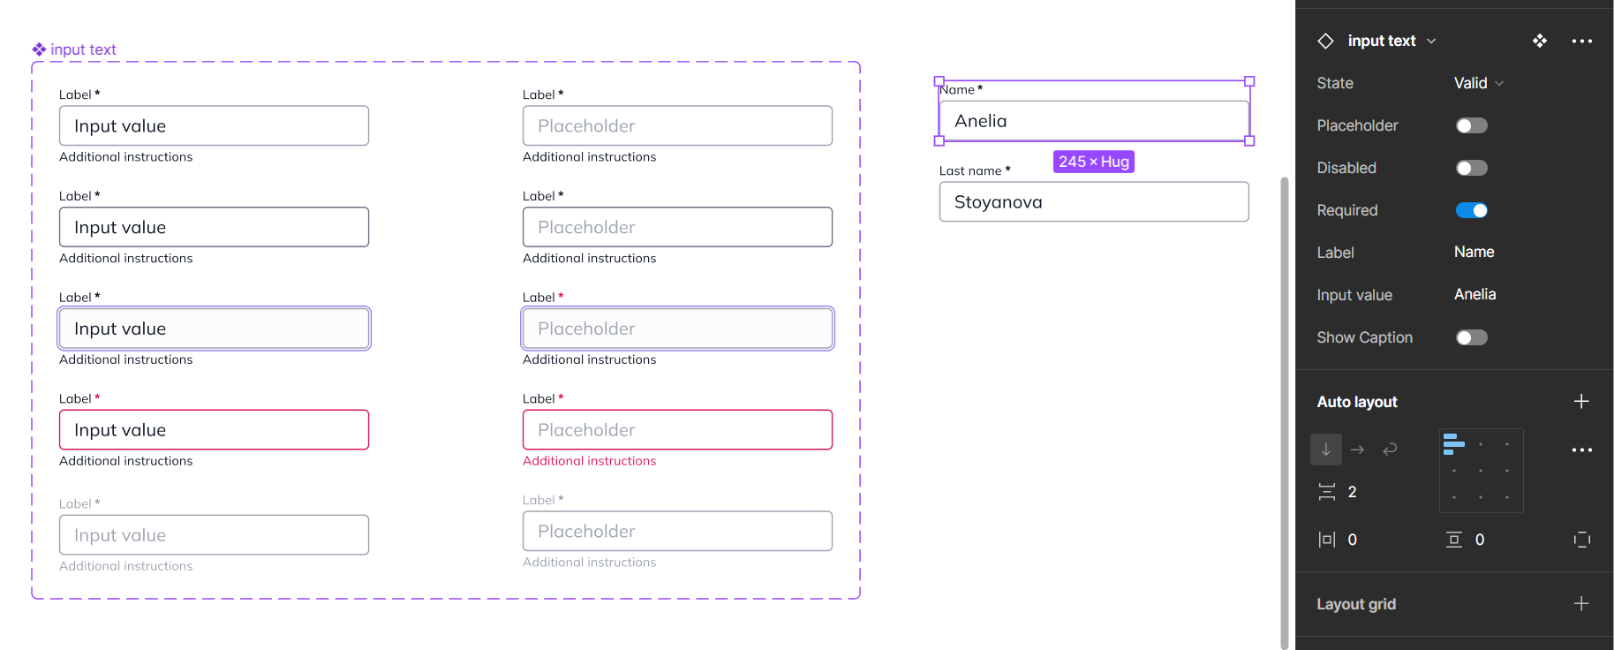
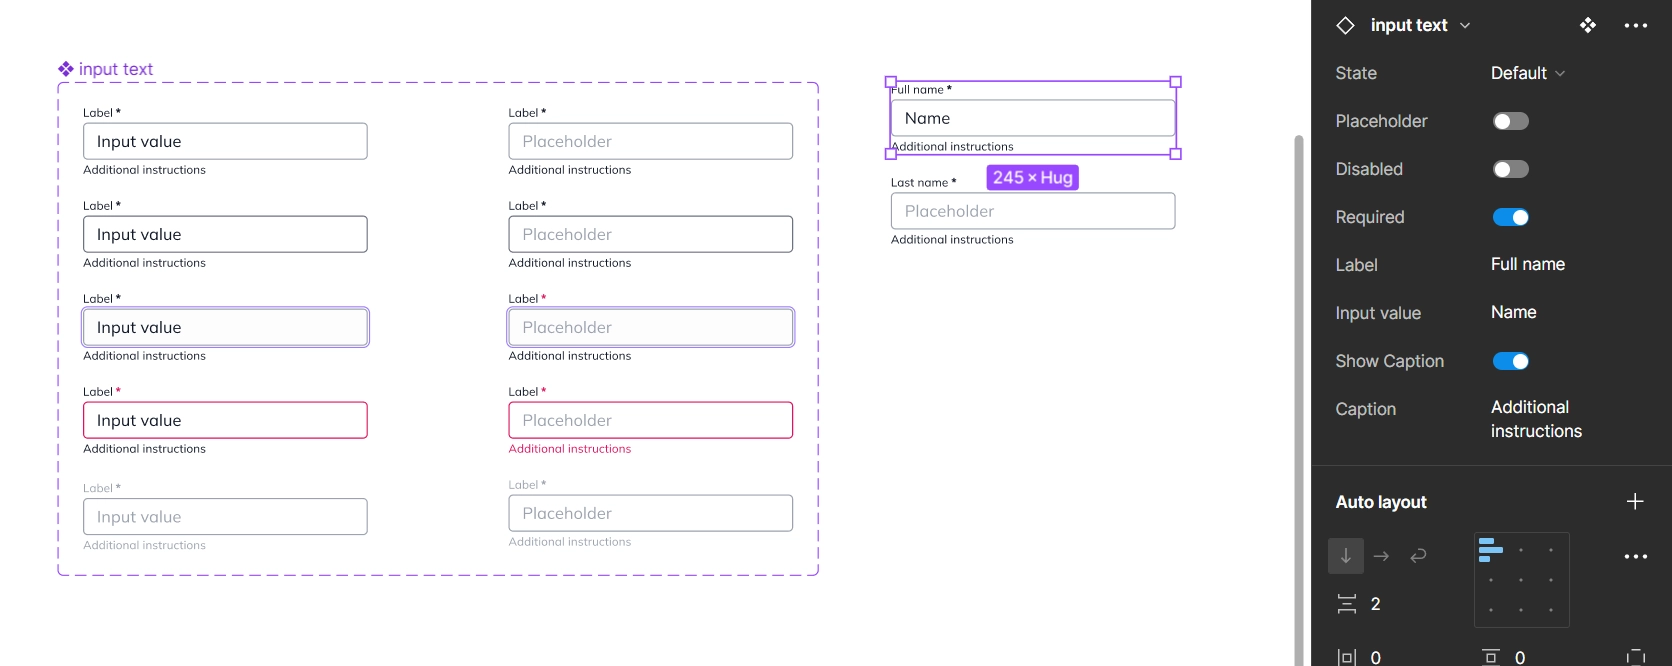
Figma community page added

diff --git a/docs/stylesheets/extra.css b/docs/stylesheets/extra.css
@@ -633,7 +633,6 @@ input {
 
 .md-post__content img {
   width: 100%;
-  aspect-ratio: 16/9;
   object-fit: cover;
 }
 
@@ -657,4 +656,8 @@ input {
   font-family: monospace;
   margin-left: var(--spacing-2);
   padding-inline: var(--spacing-2);
+}
+
+.md-sidebar__scrollwrap {
+  overflow-y: visible;
 }

diff --git a/docs/blog/posts/design-system-inputs.md b/docs/blog/posts/design-system-inputs.md
@@ -16,6 +16,8 @@ In software development, when we want to collect information from users, we ofte
 
 <!-- more -->
 
+[View Figma Community File](https://www.figma.com/community/file/1365035881732469486/inputs){ target="blank"}
+
 ## Design and Development
 
 Designers and developers often face challenges in communication, leading to the creation of similar outputs. However, there's typically a lack of coordination between them. Designers design with humans in mind, naming their components' properties accordingly, which is great for keeping the focus on the user experience. On the other hand, developers operate in a more machine-centric environment. While this approach is beneficial in maintaining a human-centric design and a machine-centric development process, I believe that aligning certain aspects with similar names could greatly benefit both sides.
@@ -43,14 +45,14 @@ If you still need to check if there are even more types, you can go and explore 
 
 ### Desired Anatomy
 
-1. **Label** - a small introduction of the type of information that the user needs to fill in.
-2. **Required field** - a small symbol invoking the required attribute, which will make the text field required on submit.
-2. **The text field / input** - it is the actual field where users add the information.
-3. **Supportive text / Caption** - only when necessary, and this little help does not exist as an html tag, we will be doing some hacks to include it.
+1. **Label**: Provides a brief introduction to the information required.
+2. **Required indicator**: A symbol indicating a mandatory field for submission.
+3. **Text field/input**: The area where users input information.
+4. **Supportive text/Caption**: Included only when necessary, as it's not an HTML tag; we'll use workarounds to include it.
 
 ## Input Text
 
-Starting with the simplest of them all. Let's take a look and figure out what we need and how to define it.
+It's often the most basic form element used for accepting single-line text input from users. By starting here, we can establish foundational design principles that can be applied to more complex input types.
 
 #### HTML structure
 
@@ -62,6 +64,8 @@ Starting with the simplest of them all. Let's take a look and figure out what we
 <span class="inputCaption">Additional instructions</span>
 
 ``` 
+
+When we talk about the structure of HTML elements, it's crucial to understand the relationship between labels and input fields. The "for" attribute in a label should always match the "id" attribute of the corresponding input field. Why? Because this association is what makes forms accessible and user-friendly. When they're correctly linked, users can click on the label itself to activate or focus on the input field, making navigation smoother and more intuitive. It's a small detail, but it significantly enhances the overall usability of web forms.
 
 And here is the result with no styling applied. We have only added some classes, so it is prepared for further retouches:
 
@@ -82,13 +86,15 @@ And here is the result with no styling applied. We have only added some classes,
 What we need to have in mind when designing: 
 
 1. The input type, which will be the name of the Figma component: `#!html <input type="text">`
-2. Attributes to consider inlcuding in a boolean property: `disabled, pattern, placeholder, readonly, required, size`
+2. Attributes to consider including in a boolean property: `disabled, pattern, placeholder, readonly, required, size`
 
 #### CSS pseudo classes
 
 `:hover`, `:focus`, and `:active` 
 
-The order of these pseudo classes is very important and we should always define them as follows[^1]: 
+These classes play a significant role in enhancing the user experience by providing visual feedback for different states of interaction. By defining them consistently across components, we ensure a cohesive and intuitive interface.
+
+The order of these pseudo classes is very important and we should always define them as follows [^1]: 
 
 1. Hover
 2. Focus
@@ -97,14 +103,16 @@ The order of these pseudo classes is very important and we should always define 
 [^1]: Bits of code - 
 Articles on frontend engineering and more [When do the :hover, :focus, and :active pseudo-classes apply?](https://bitsofco.de/when-do-the-hover-focus-and-active-pseudo-classes-apply/){ target="blank" }
 
-The question is how can we link these properties to the Figma panel? Let's figure it out...
+The question is where and how can we link these properties to the Figma panel? Some of the component properties will refer to HTML attributes and others will be referring to CSS pseudo classes that will determine the final look of the components. Let's figure it out together...
 
 #### Figma component properties
+
+Connecting component properties in the Figma panel to those corresponding to HTML attributes (such as "Disabled," "Required") and associated with CSS pseudo-classes (like "Hover," "Focus") might not seem essential at first glance. However, when you're designing something meant to be both human-readable and developer-friendly, it's crucial. Avoiding the need for extensive explanations by ensuring clarity in design components fosters smoother communication between designers and developers. This connection enables them to effortlessly discuss and understand component behavior directly within the design tool, facilitating collaboration and streamlining the design and development process.
 
 1. Component name: **Input text**
 2. Show Placeholder: True / False
 3. States <span class="handnotes">CSS pseudo classes</span>: 
-    - Valid
+    - Default (it becomes *valid*, after validation)
     - Hover 
     - Focus 
     - Invalid 
